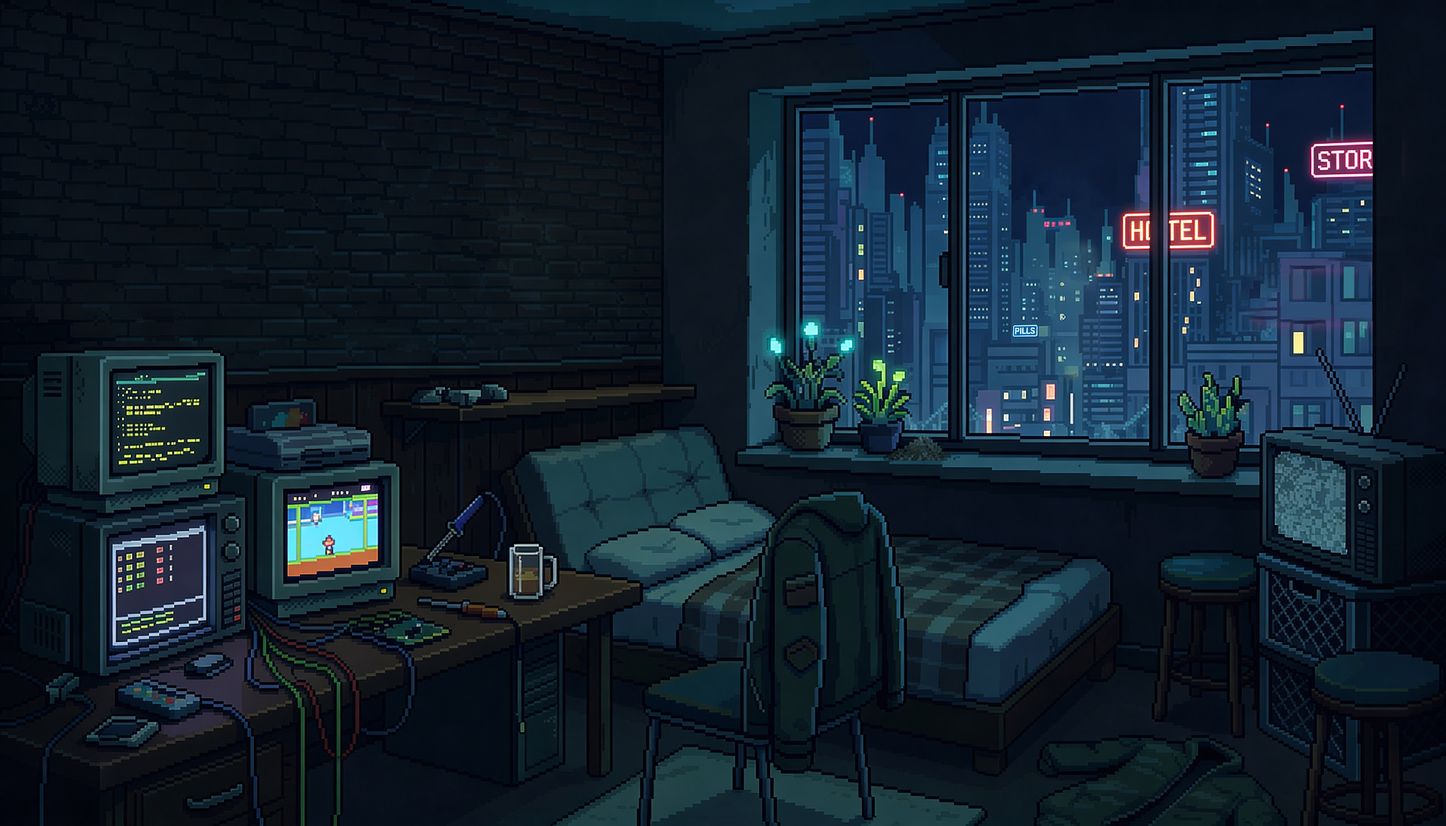
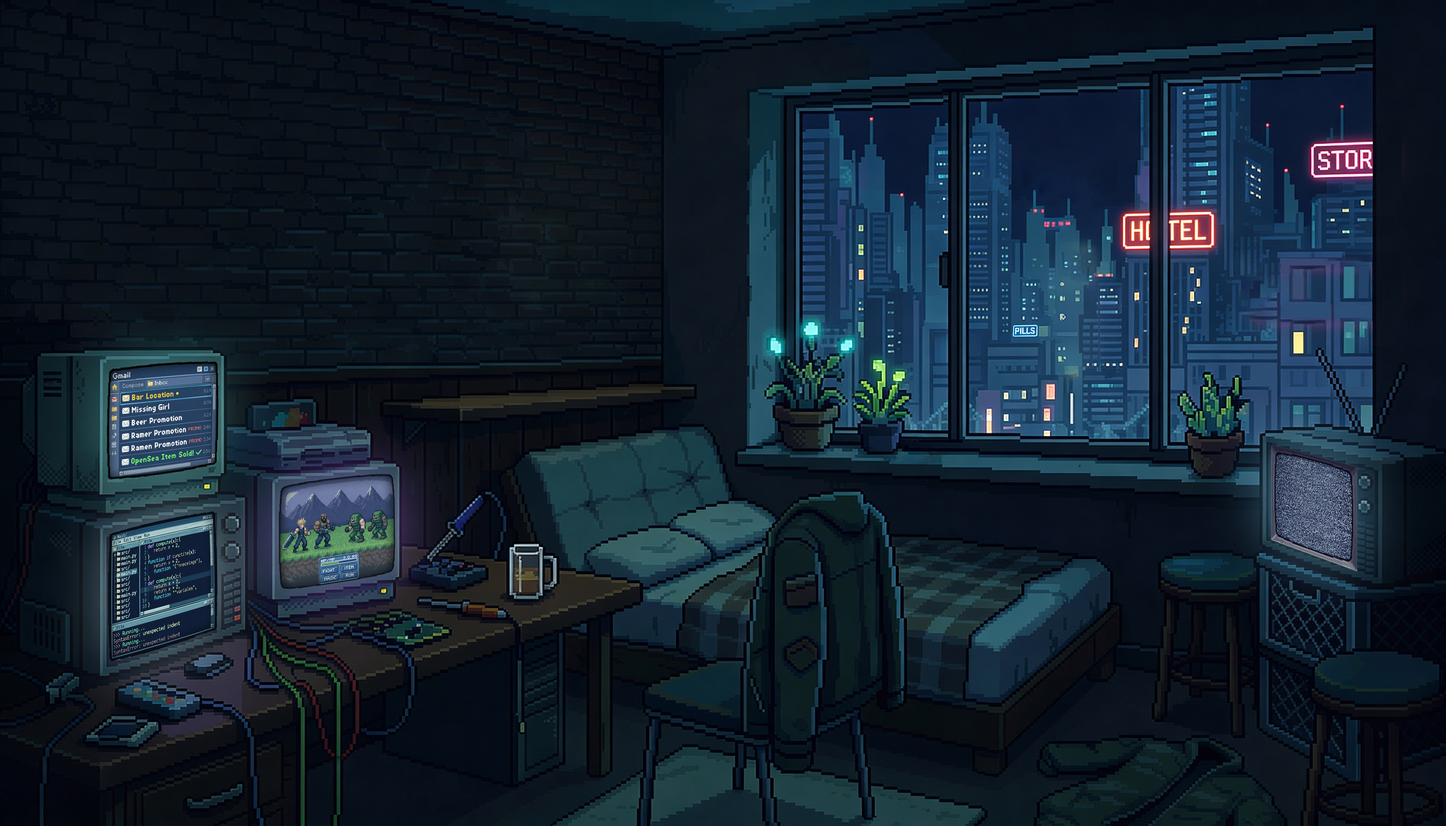
Preload apartment background before intro transition

diff --git a/src/components/StartScreen.tsx b/src/components/StartScreen.tsx
@@ -1,13 +1,39 @@
 import { AnimatePresence, motion } from "framer-motion";
-import { useEffect, useState } from "react";
+import { useEffect, useRef, useState } from "react";
 
 const BG_IMAGE = "/game-assets/background_intro.jpg";
+const NEXT_SCENE_BG_IMAGE = "/game-assets/background_apartment.jpg";
 const TITLE = "PARADOX";
 const SUBTITLE = "After Hours";
 const LOGO_DELAY = 900;
 const BUTTON_DELAY = 1700;
 const EXIT_DURATION_MS = 800;
 const CORRUPT_CHARS = "▓░▒█▄▀■□▪▫◊◈⬡⬢⏣⎔";
+
+const PRELOADED_IMAGES = new Set<string>();
+
+function preloadImage(src: string): Promise<void> {
+  if (PRELOADED_IMAGES.has(src)) return Promise.resolve();
+
+  return new Promise((resolve) => {
+    const image = new Image();
+    let settled = false;
+    const done = () => {
+      if (settled) return;
+      settled = true;
+      PRELOADED_IMAGES.add(src);
+      resolve();
+    };
+
+    image.onload = done;
+    image.onerror = done;
+    image.src = src;
+
+    if (image.complete) {
+      done();
+    }
+  });
+}
 
 function getCorruptChar(): string {
   return CORRUPT_CHARS[Math.floor(Math.random() * CORRUPT_CHARS.length)];
@@ -200,16 +226,13 @@ export function StartScreen({ onStart, onUserInteract }: StartScreenProps) {
   const [showButton, setShowButton] = useState(false);
   const [isExiting, setIsExiting] = useState(false);
   const [backgroundReady, setBackgroundReady] = useState(false);
+  const nextSceneBackgroundPromiseRef = useRef<Promise<void>>(Promise.resolve());
 
   useEffect(() => {
-    const image = new Image();
-    image.src = BG_IMAGE;
-    image.onload = () => setBackgroundReady(true);
-    image.onerror = () => setBackgroundReady(true);
-    if (image.complete) {
-      setBackgroundReady(true);
-    }
+    preloadImage(BG_IMAGE).then(() => setBackgroundReady(true));
+  }, []);
 
+  useEffect(() => {
     if (!backgroundReady) return;
 
     const logoTimer = window.setTimeout(() => setShowLogo(true), LOGO_DELAY);
@@ -221,11 +244,26 @@ export function StartScreen({ onStart, onUserInteract }: StartScreenProps) {
     };
   }, [backgroundReady]);
 
-  const handleStart = () => {
+  useEffect(() => {
+    if (!showButton) return;
+    nextSceneBackgroundPromiseRef.current = preloadImage(NEXT_SCENE_BG_IMAGE);
+  }, [showButton]);
+
+  const handleStart = async () => {
     if (onUserInteract) onUserInteract();
     if (isExiting) return;
     setIsExiting(true);
-    window.setTimeout(onStart, EXIT_DURATION_MS);
+    const nextSceneBackgroundPromise = preloadImage(NEXT_SCENE_BG_IMAGE);
+    nextSceneBackgroundPromiseRef.current = nextSceneBackgroundPromise;
+
+    await Promise.all([
+      nextSceneBackgroundPromise,
+      new Promise<void>((resolve) => {
+        window.setTimeout(resolve, EXIT_DURATION_MS);
+      }),
+    ]);
+
+    onStart();
   };
 
   return (
